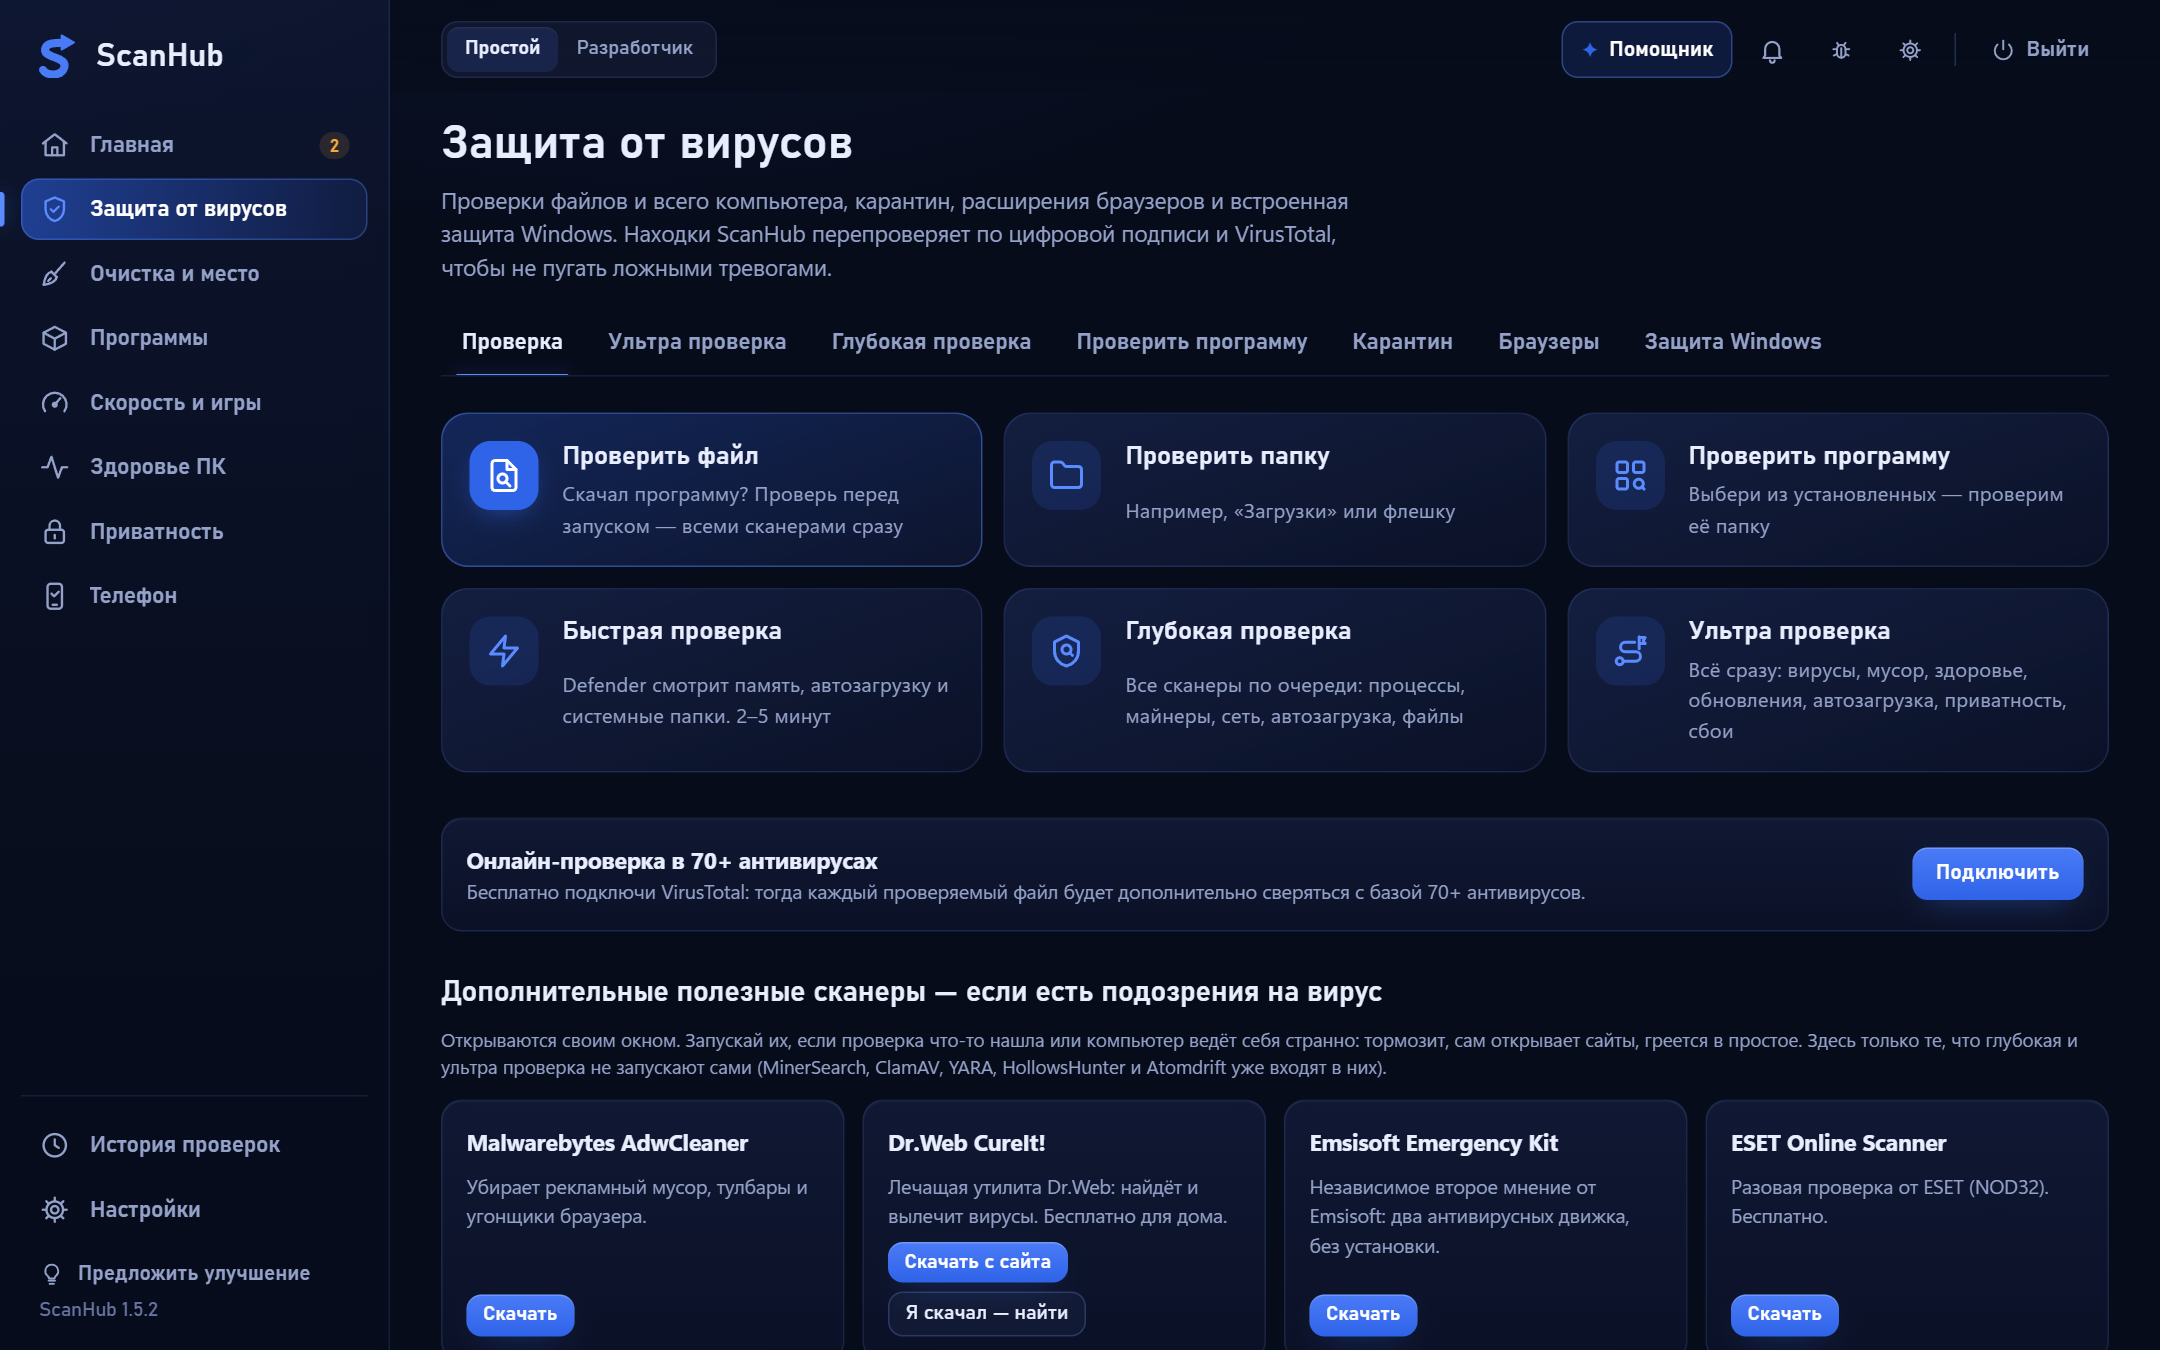
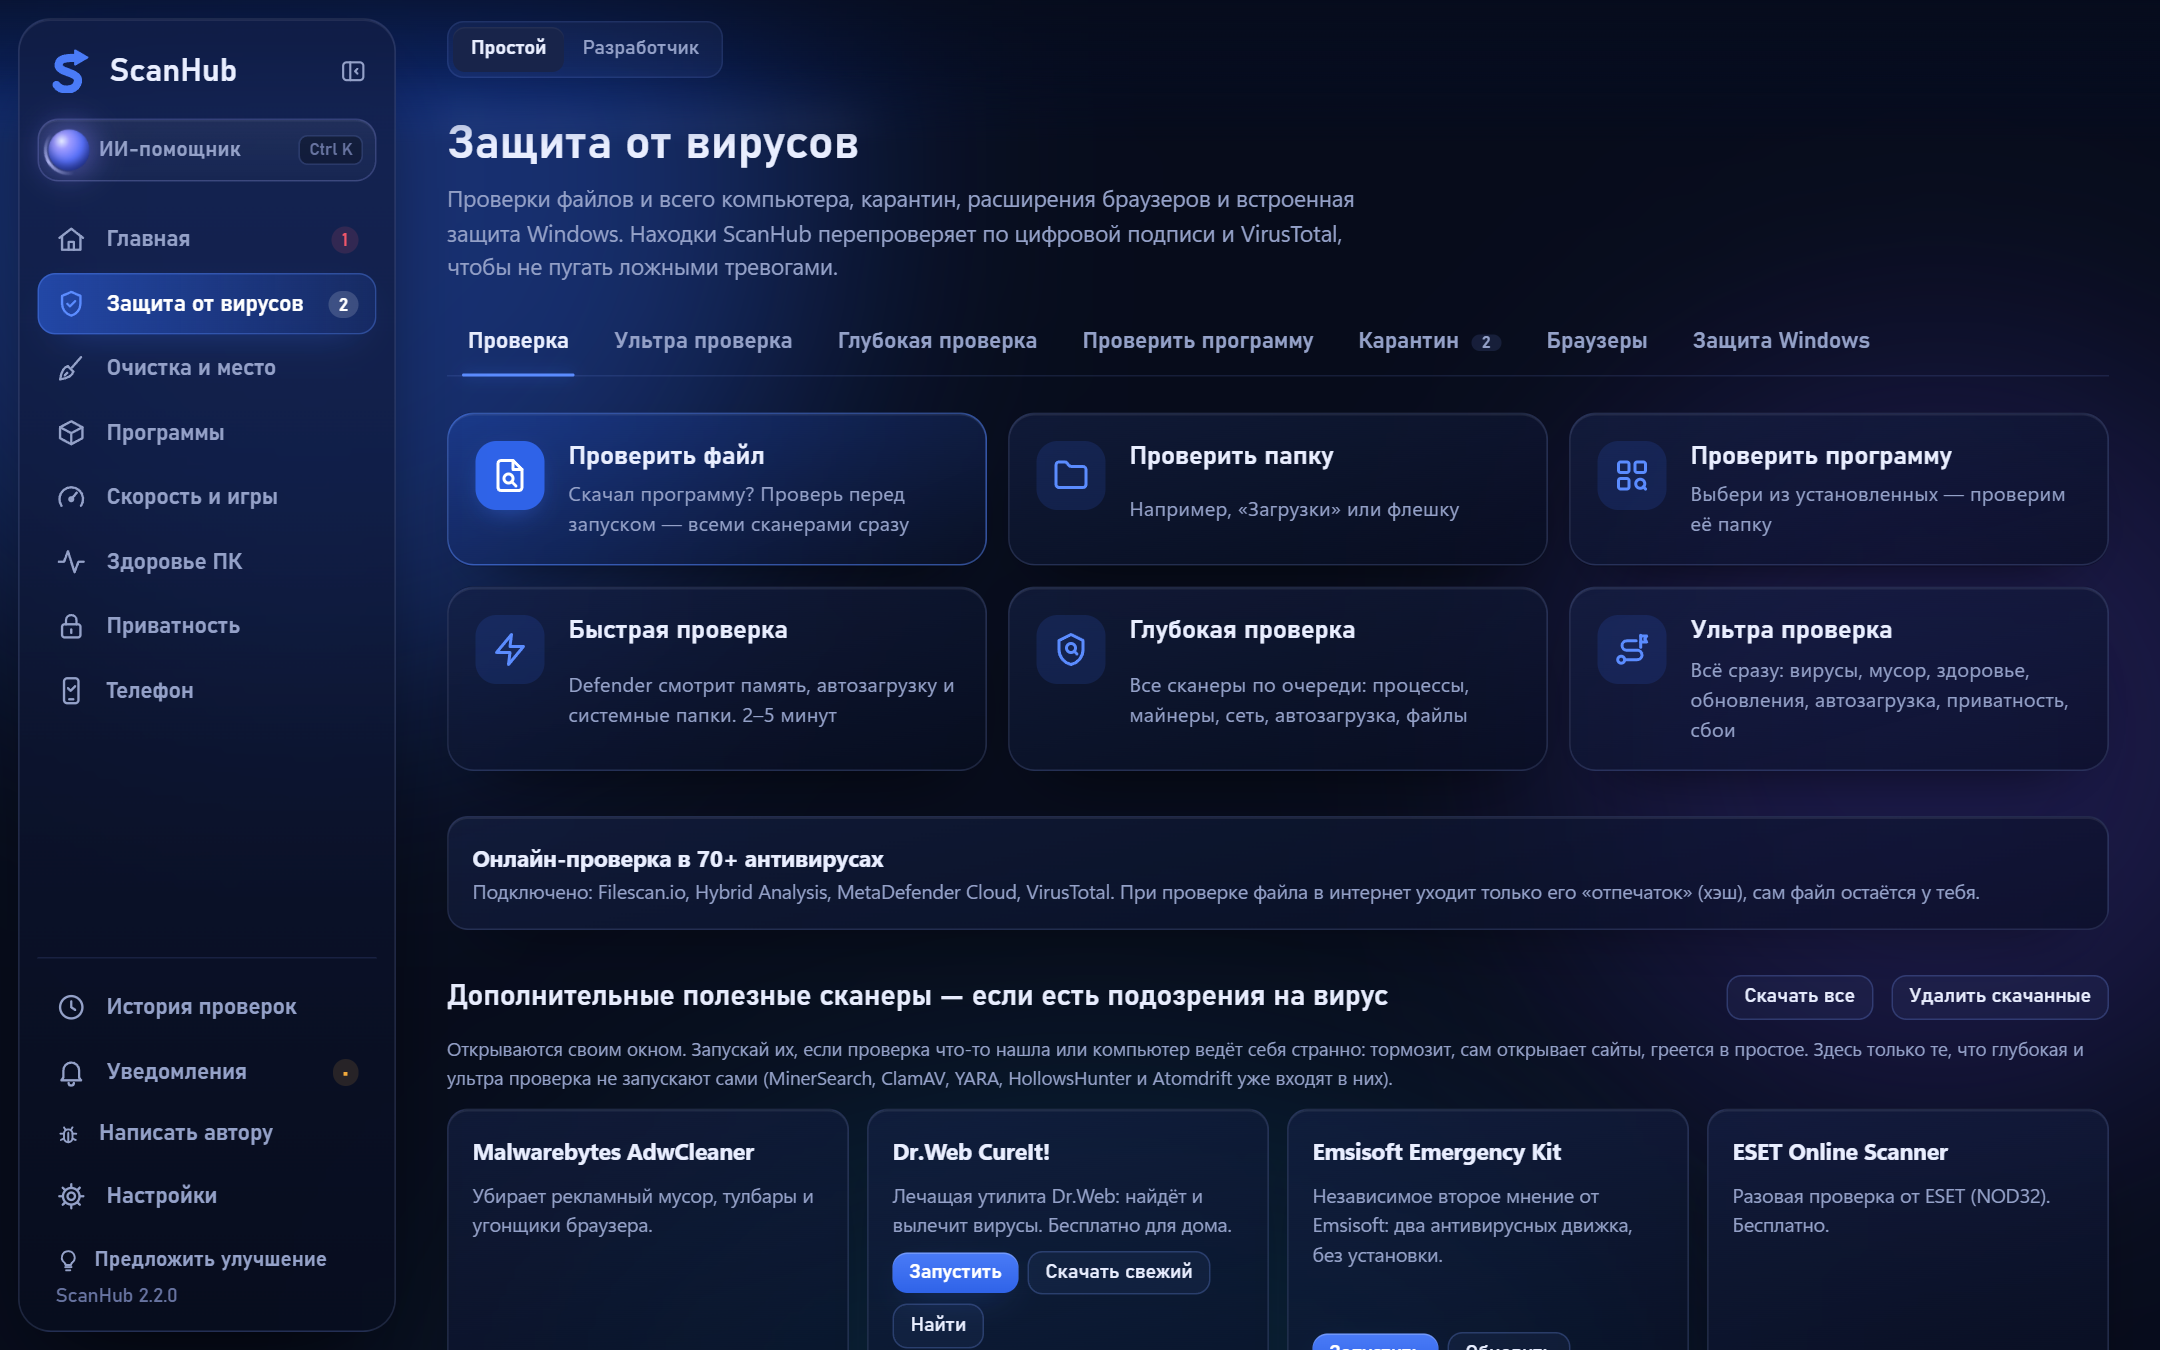
README: новые скриншоты 2.2 (русские и английские, + помощник), контрольные суммы выпуска; оценка стабильности с точкой в английском режиме; перевод описания WebView2

diff --git a/ui/hero.js b/ui/hero.js
@@ -198,7 +198,7 @@ function homeStats(){
   const tiles = [];
   if (sv != null) {
     const [lvl] = stabVerdict(sv);
-    tiles.push(`<div class="hs ${lvl === "ok" ? "" : lvl}" ${GO}><span class="k">${icon("health")}Стабильность Windows</span><b class="v">${sv.toFixed(1).replace(".", ",")}<small>из 10</small></b>
+    tiles.push(`<div class="hs ${lvl === "ok" ? "" : lvl}" ${GO}><span class="k">${icon("health")}Стабильность Windows</span><b class="v">${L(sv.toFixed(1).replace(".", ","), sv.toFixed(1))}<small>из 10</small></b>
       <span class="n">${esc(stabVerdict(sv)[1])}</span>${hSpark(stab.slice(-28).map(x => x.v), "#5B8CFF", 10)}</div>`);
   } else if (g) {
     tiles.push(`<div class="hs" ${GO}><span class="k">${icon("game")}Видеокарта</span><b class="v">${Math.round(g.util ?? 0)}<small>%${g.temp != null ? ` · ${g.temp}°C` : ""}</small></b>

diff --git a/README.md b/README.md
@@ -17,11 +17,15 @@ Everything you need to check and maintain Windows, in one window: 30+ antivirus 
 
 Unpack the archive into any folder and run **ScanHub.exe**. Nothing to install, Python is already inside.
 
-![Home](docs/screenshots/1-home.png)
+Every release also has **SHA256SUMS.txt** with the checksums of both archives, so you can check that the download wasn't altered.
 
-| Scanning a file: several antivirus engines and one overall verdict | Built-in Windows protections with an undo |
+![Home](docs/screenshots/en/1-home.png)
+
+| Virus protection: file, folder, quick, deep and ultra checks | Built-in Windows protections with an undo |
 |---|---|
-| ![File scan](docs/screenshots/2-scan.png) | ![Windows protection](docs/screenshots/3-security.png) |
+| ![Virus protection](docs/screenshots/en/2-scan.png) | ![Windows protection](docs/screenshots/en/3-security.png) |
+
+![AI assistant: ask in plain words or tell it to check something — Ctrl+K](docs/screenshots/en/5-assistant.png)
 
 ## What it does
 
@@ -107,7 +111,7 @@ Found a vulnerability? Write in Issues (without exploitation details) or contact
 
 ScanHub is not a replacement for a permanent antivirus. It helps you double-check your computer and figure out what is going on with it. Findings are a reason to look closer, not a verdict: heuristics produce false positives, and the scan result explains that. System changes are reversible, but you make them at your own risk.
 
-![All scanners in Developer mode](docs/screenshots/4-scanners.png)
+![All scanners in Developer mode](docs/screenshots/en/4-scanners.png)
 
 To add your own scanner, write one JSON file in the `registry` folder; the schema is in [registry/README.md](registry/README.md).
 

diff --git a/README.ru.md b/README.ru.md
@@ -19,11 +19,15 @@
 
 Распакуй архив в любую папку и запусти **ScanHub.exe** — устанавливать ничего не нужно, Python уже внутри.
 
+К каждому выпуску приложен **SHA256SUMS.txt** с контрольными суммами обоих архивов — можно проверить, что скачанное не подменили.
+
 ![Главная](docs/screenshots/1-home.png)
 
-| Проверка файла: несколько антивирусов и общий итог | Встроенные защиты Windows с «вернуть как было» |
+| Защита от вирусов: файл, папка, быстрая, глубокая и ультра проверка | Встроенные защиты Windows с «вернуть как было» |
 |---|---|
-| ![Проверка файла](docs/screenshots/2-scan.png) | ![Защита Windows](docs/screenshots/3-security.png) |
+| ![Защита от вирусов](docs/screenshots/2-scan.png) | ![Защита Windows](docs/screenshots/3-security.png) |
+
+![ИИ-помощник: спроси простыми словами или попроси что-то проверить — Ctrl+K](docs/screenshots/5-assistant.png)
 
 ## Что умеет
 
